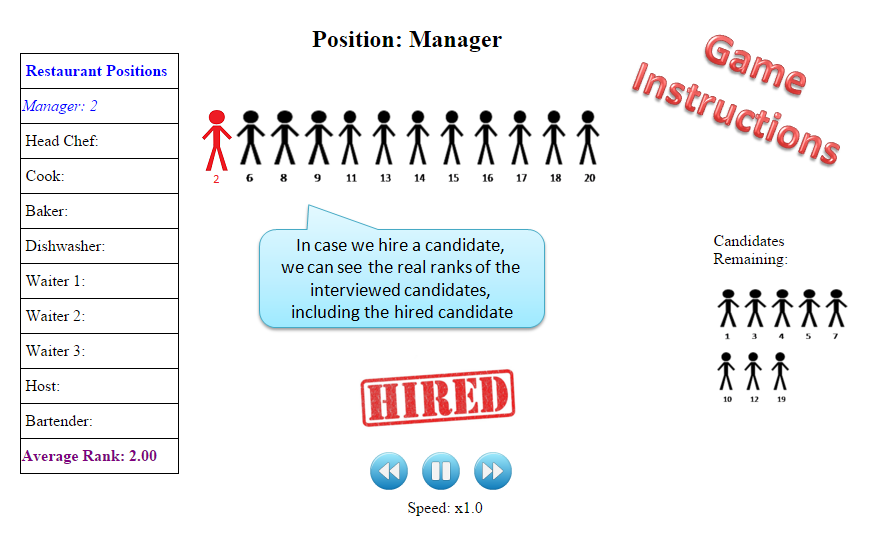
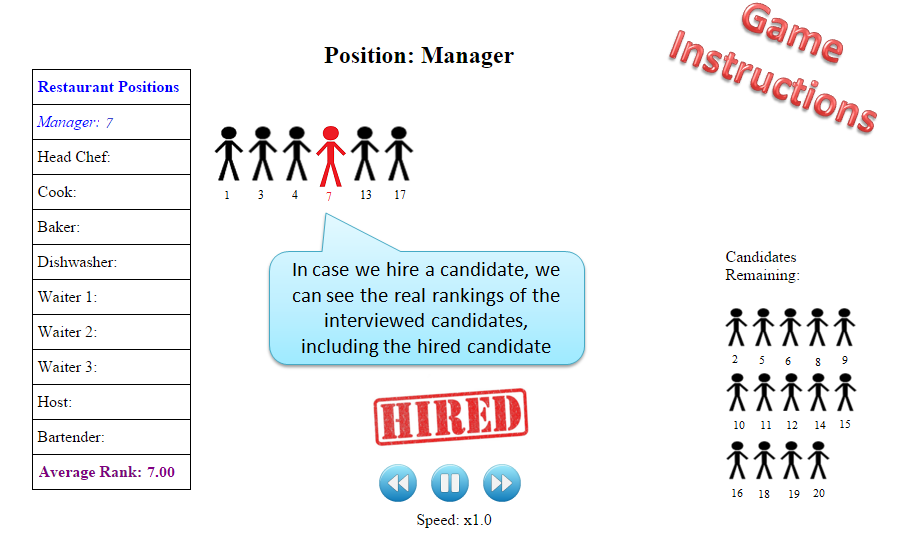
improvements

diff --git a/RestaurantGame/Default.aspx.cs b/RestaurantGame/Default.aspx.cs
@@ -63,6 +63,7 @@ namespace RestaurantGame
             if (randHim == 1)
             {
                 backgroundText.Text = backgroundText.Text.Replace("him", "her");
+                backgroundText2.Text = backgroundText2.Text.Replace("he", "she");
             }
 
             AskPosition = (randHim == 0) ? 1 : 10;
@@ -87,8 +88,6 @@ namespace RestaurantGame
 
             CurrentCandidateNumber = 0;
             CandidateCompletedStep = CandidateCompletedStep.ShowCandidatesMap;
-
-            TimerGame.Interval = 4000;
 
             TimerGame.Enabled = true;
         }
@@ -174,10 +173,11 @@ namespace RestaurantGame
 
         private void EndGame()
         {
+            TimerGame.Enabled = false;
             MultiView1.ActiveViewIndex = 7;
             double averageRank = CalculateAveragePosition();
-            int bonus = NumberOfCandidates - (int)Math.Round(averageRank);
-            AverageRank.Text = averageRank.ToString("0.00");
+            double bonus = NumberOfCandidates - averageRank;
+            AverageRank.Text = averageRank.ToString("0.0");
             Bonus.Text = bonus.ToString() + " cents";
         }
 
@@ -224,7 +224,7 @@ namespace RestaurantGame
                 else
                 {
                     TimerGame.Enabled = false;
-                    SessionState = Enums.SessionState.WaitingForUserDecision;
+                    SessionState = SessionState.WaitingForUserDecision;
                 }
             }
             else if (currentCandidate.CandidateState == CandidateState.Completed)
@@ -282,7 +282,7 @@ namespace RestaurantGame
                 TimerBlinkRemainingCandidates.Interval = 350;
             }
 
-            if (NumOfBlinks >= 5)
+            if (NumOfBlinks >= 2)
             {
                 TimerBlinkRemainingCandidates.Enabled = false;
                 RearrangeCandidatesMap();
@@ -304,7 +304,6 @@ namespace RestaurantGame
                 HideCandidatesSecondRowImages();
                 RemainingBlinkState = BlinkState.Hidden;
                 SetCurrentPositionCellVisibility(RemainingBlinkState);
-                NumOfBlinks++;
                 TimerRearrangeCandidatesMap.Interval = 250;
             }
             else
@@ -313,15 +312,34 @@ namespace RestaurantGame
                 RemainingBlinkState = BlinkState.Visible;
                 SetCurrentPositionCellVisibility(RemainingBlinkState);
                 TimerRearrangeCandidatesMap.Interval = 350;
+                NumOfBlinks++;
             }
 
-            if (NumOfBlinks >= 5)
+            if (NumOfBlinks >= 2)
             {
                 TimerRearrangeCandidatesMap.Enabled = false;
                 SetCurrentPositionCellVisibility(BlinkState.Visible);
-                FullyHideCandidatesSecondRowImages();
-                PickUniform();
+                PositionSummary();
             }
+        }
+
+        private void PositionSummary()
+        {
+            btnThumbsDown.Visible = false;
+            btnThumbsUp.Visible = false;
+            btnFastBackwards.Visible = false;
+            btnPausePlay.Visible = false;
+            btnFastForward.Visible = false;
+            LabelSpeed.Visible = false;
+            PositionSummaryLbl1.Visible = true;
+            PositionSummaryLbl2.Visible = true;
+            PositionSummaryLbl3.Visible = true;
+            SummaryNextLbl.Visible = true;
+            btnNextToUniform.Visible = true;
+            PanelBasket.Visible = false;
+
+            PositionSummaryLbl2.Text = CurrentCandidate.CandidateRank.ToString();
+            SummaryNextLbl.Text = "<br /><br />Press 'Next' to pick uniform for the " + GetCurrentJobTitle() + ".<br />";
         }
 
         private void PickUniform()
@@ -468,16 +486,16 @@ namespace RestaurantGame
         {
             StringBuilder sb = new StringBuilder();
 
-            sb.Append("The new candidate has a relative rank of ");
+            sb.Append("The new candidate has a relative ranking of ");
             sb.Append(newCandidateIndex + 1);
-            sb.Append(" out of ");
+            sb.Append(" out of the ");
             sb.Append(totalCandidatesByNow);
-            sb.Append(".");
+            sb.Append(" interviewed by now.");
 
             if (GameMode == GameMode.Training)
             {
                 sb.Append("<br />");
-                sb.Append("Choose to Accept or Reject the candidate, using the thumbs buttons.");
+                sb.Append("Choose to Accept or Reject the candidate, using the thumbs buttons below.");
             }
 
             StatusLabel.Text = sb.ToString();
@@ -505,6 +523,12 @@ namespace RestaurantGame
 
         protected void btnThumbsDown_Click(object sender, EventArgs e)
         {
+            if (CurrentCandidateNumber >= NumberOfCandidates - 1)
+            {
+                Alert.Show("You cannot reject the last candidate, no more candidates avaliable.");
+                return;
+            }
+
             AcceptCandidateByUser(false);
             IncreaseButtonSize(btnThumbsDown);
         }
@@ -530,8 +554,28 @@ namespace RestaurantGame
                 currentCandidate.CandidateState = CandidateState.Completed;
             }
 
+            TimerGame.Interval = 500;
             TimerGame.Enabled = true;
-            SessionState = Enums.SessionState.Running;
+            SessionState = SessionState.Running;
+        }
+
+        protected void btnNextToUniform_Click(object sender, EventArgs e)
+        {
+            btnThumbsDown.Visible = true;
+            btnThumbsUp.Visible = true;
+            btnFastBackwards.Visible = true;
+            btnPausePlay.Visible = true;
+            btnFastForward.Visible = true;
+            LabelSpeed.Visible = true;
+            PositionSummaryLbl1.Visible = false;
+            PositionSummaryLbl2.Visible = false;
+            PositionSummaryLbl3.Visible = false;
+            SummaryNextLbl.Visible = false;
+            btnNextToUniform.Visible = false;
+            PanelBasket.Visible = true;
+
+            FullyHideCandidatesSecondRowImages();
+            PickUniform();
         }
     }
 }

diff --git a/RestaurantGame/Default.aspx.designer.cs b/RestaurantGame/Default.aspx.designer.cs
@@ -76,6 +76,15 @@ namespace RestaurantGame {
         protected global::System.Web.UI.WebControls.Label backgroundText;
         
         /// <summary>
+        /// backgroundText2 control.
+        /// </summary>
+        /// <remarks>
+        /// Auto-generated field.
+        /// To modify move field declaration from designer file to code-behind file.
+        /// </remarks>
+        protected global::System.Web.UI.WebControls.Label backgroundText2;
+        
+        /// <summary>
         /// label44 control.
         /// </summary>
         /// <remarks>
@@ -1570,6 +1579,42 @@ namespace RestaurantGame {
         protected global::System.Web.UI.WebControls.ImageButton btnFastForward;
         
         /// <summary>
+        /// PositionSummaryLbl1 control.
+        /// </summary>
+        /// <remarks>
+        /// Auto-generated field.
+        /// To modify move field declaration from designer file to code-behind file.
+        /// </remarks>
+        protected global::System.Web.UI.WebControls.Label PositionSummaryLbl1;
+        
+        /// <summary>
+        /// PositionSummaryLbl2 control.
+        /// </summary>
+        /// <remarks>
+        /// Auto-generated field.
+        /// To modify move field declaration from designer file to code-behind file.
+        /// </remarks>
+        protected global::System.Web.UI.WebControls.Label PositionSummaryLbl2;
+        
+        /// <summary>
+        /// PositionSummaryLbl3 control.
+        /// </summary>
+        /// <remarks>
+        /// Auto-generated field.
+        /// To modify move field declaration from designer file to code-behind file.
+        /// </remarks>
+        protected global::System.Web.UI.WebControls.Label PositionSummaryLbl3;
+        
+        /// <summary>
+        /// SummaryNextLbl control.
+        /// </summary>
+        /// <remarks>
+        /// Auto-generated field.
+        /// To modify move field declaration from designer file to code-behind file.
+        /// </remarks>
+        protected global::System.Web.UI.WebControls.Label SummaryNextLbl;
+        
+        /// <summary>
         /// LabelSpeed control.
         /// </summary>
         /// <remarks>
@@ -1577,6 +1622,15 @@ namespace RestaurantGame {
         /// To modify move field declaration from designer file to code-behind file.
         /// </remarks>
         protected global::System.Web.UI.WebControls.Label LabelSpeed;
+        
+        /// <summary>
+        /// btnNextToUniform control.
+        /// </summary>
+        /// <remarks>
+        /// Auto-generated field.
+        /// To modify move field declaration from designer file to code-behind file.
+        /// </remarks>
+        protected global::System.Web.UI.WebControls.Button btnNextToUniform;
         
         /// <summary>
         /// ViewRating control.

diff --git a/RestaurantGame/GameFlow/PositionHandler.cs b/RestaurantGame/GameFlow/PositionHandler.cs
@@ -37,7 +37,11 @@ namespace RestaurantGame
 
         private double CalculateAveragePosition()
         {
-            return Positions.Where(position => position.ChosenCandidate != null).Average(pos => pos.ChosenCandidate.CandidateRank);
+            double average = Positions.Where(position => position.ChosenCandidate != null).
+                Average(pos => pos.ChosenCandidate.CandidateRank);
+
+            // with one decimal precision
+            return Math.Round(average, 1);
         }
 
         private void UpdatePositionsTable(Position currentPosition, double avgRank)
@@ -45,7 +49,7 @@ namespace RestaurantGame
             var positionCell = GetPositionCell(currentPosition);
             positionCell.Text = "&nbsp;" + currentPosition.GetJobTitle() + ": " + currentPosition.ChosenCandidate.CandidateRank;
 
-            AvgRankCell.Text = "&nbsp;Average Rank: " + avgRank.ToString("0.00");
+            AvgRankCell.Text = "&nbsp;Average Ranking: " + avgRank.ToString("0.0") + " ";
         }
 
         private void ClearPositionsTable()
@@ -64,7 +68,7 @@ namespace RestaurantGame
                 positionCell.Font.Bold = false;
             }
 
-            AvgRankCell.Text = "&nbsp;Average Rank: ";
+            AvgRankCell.Text = "&nbsp;Average Ranking: ";
         }
 
         private Position GetPosition(int indexPosition)

diff --git a/RestaurantGame/GameFlow/Quiz.cs b/RestaurantGame/GameFlow/Quiz.cs
@@ -9,6 +9,8 @@ namespace RestaurantGame
 {
     public partial class Default : System.Web.UI.Page
     {
+        public const int MaxNumOfWrongQuizAnswers = 5;
+
         protected void btnNextToProceedToGame_Click(object sender, EventArgs e)
         {
             if (rbl1.SelectedIndex == 0 && rbl2.SelectedIndex == 3 && rbl3.SelectedIndex == 3)
@@ -19,7 +21,7 @@ namespace RestaurantGame
             {
                 NumOfWrongQuizAnswers++;
 
-                if (NumOfWrongQuizAnswers > 2)
+                if (NumOfWrongQuizAnswers >= MaxNumOfWrongQuizAnswers)
                 {
                     MultiView1.ActiveViewIndex = 8;
                 }
